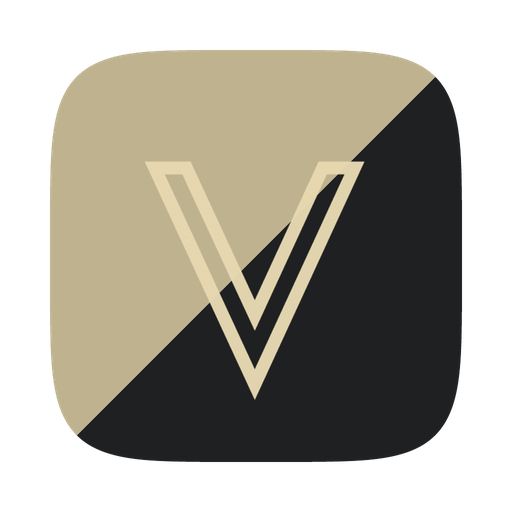
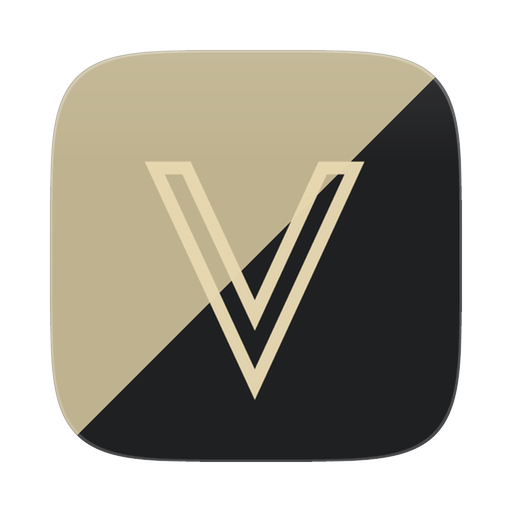
fix(governance): clear three release-gate failures
- Re-vendor plugins/vtcode-companion/assets/icon.png from the resources
  master (d20cbb4b4 updated resources without the companion re-vendor;
  restores the byte-identity contract the companion packaging test
  asserts - pre-existing desync, 19/19 tests now pass).
- Reformat exec/async_command.rs (cargo fmt after the tokio port).
- dependency-bloat-audit.md: escape-free code-span phrasing; CommonMark
  forbids backslash-escaped backticks inside code spans, which broke
  MD038 downstream. markdownlint now exits 0.

diff --git a/crates/codegen/vtcode-core/src/exec/async_command.rs b/crates/codegen/vtcode-core/src/exec/async_command.rs
@@ -329,7 +329,8 @@ where
 async fn kill_child_process_group(child_pid: Option<u32>, child: &mut Child) -> Result<()> {
     #[cfg(unix)]
     if let Some(pid) = child_pid {
-        return vtcode_bash_runner::process_group::kill_process_group_by_pid(pid).context("failed to kill process group");
+        return vtcode_bash_runner::process_group::kill_process_group_by_pid(pid)
+            .context("failed to kill process group");
     }
     let _ = child_pid;
     child.kill().await.context("failed to kill child process")

diff --git a/docs/development/dependency-bloat-audit.md b/docs/development/dependency-bloat-audit.md
@@ -86,8 +86,8 @@ re-tune profiles without re-measuring; this audit targets the dependency graph i
 
 ## Known manifest-lint expectations
 
-- cargo ≥1.100 emits `warning: unused dependency \`mimalloc\`` under `--all-features` (check-dev
-  clippy runs `--all-features`): with `profiling` + `allocator-jemalloc` both on, both allocators
+- cargo ≥1.100 emits an "unused dependency mimalloc" warning when the check-dev clippy run uses
+  `--all-features`: with `profiling` + `allocator-jemalloc` both on, both allocators
   are cfg'd out. Documented in `.vtcode/memory/gotchas.md` (2026-11-14); keep
   `unused_dependencies = "warn"`.
 - The previous "unused workspace deps vtcode-acp/vtcode-eval/vtcode-webmcp" warnings are resolved by
